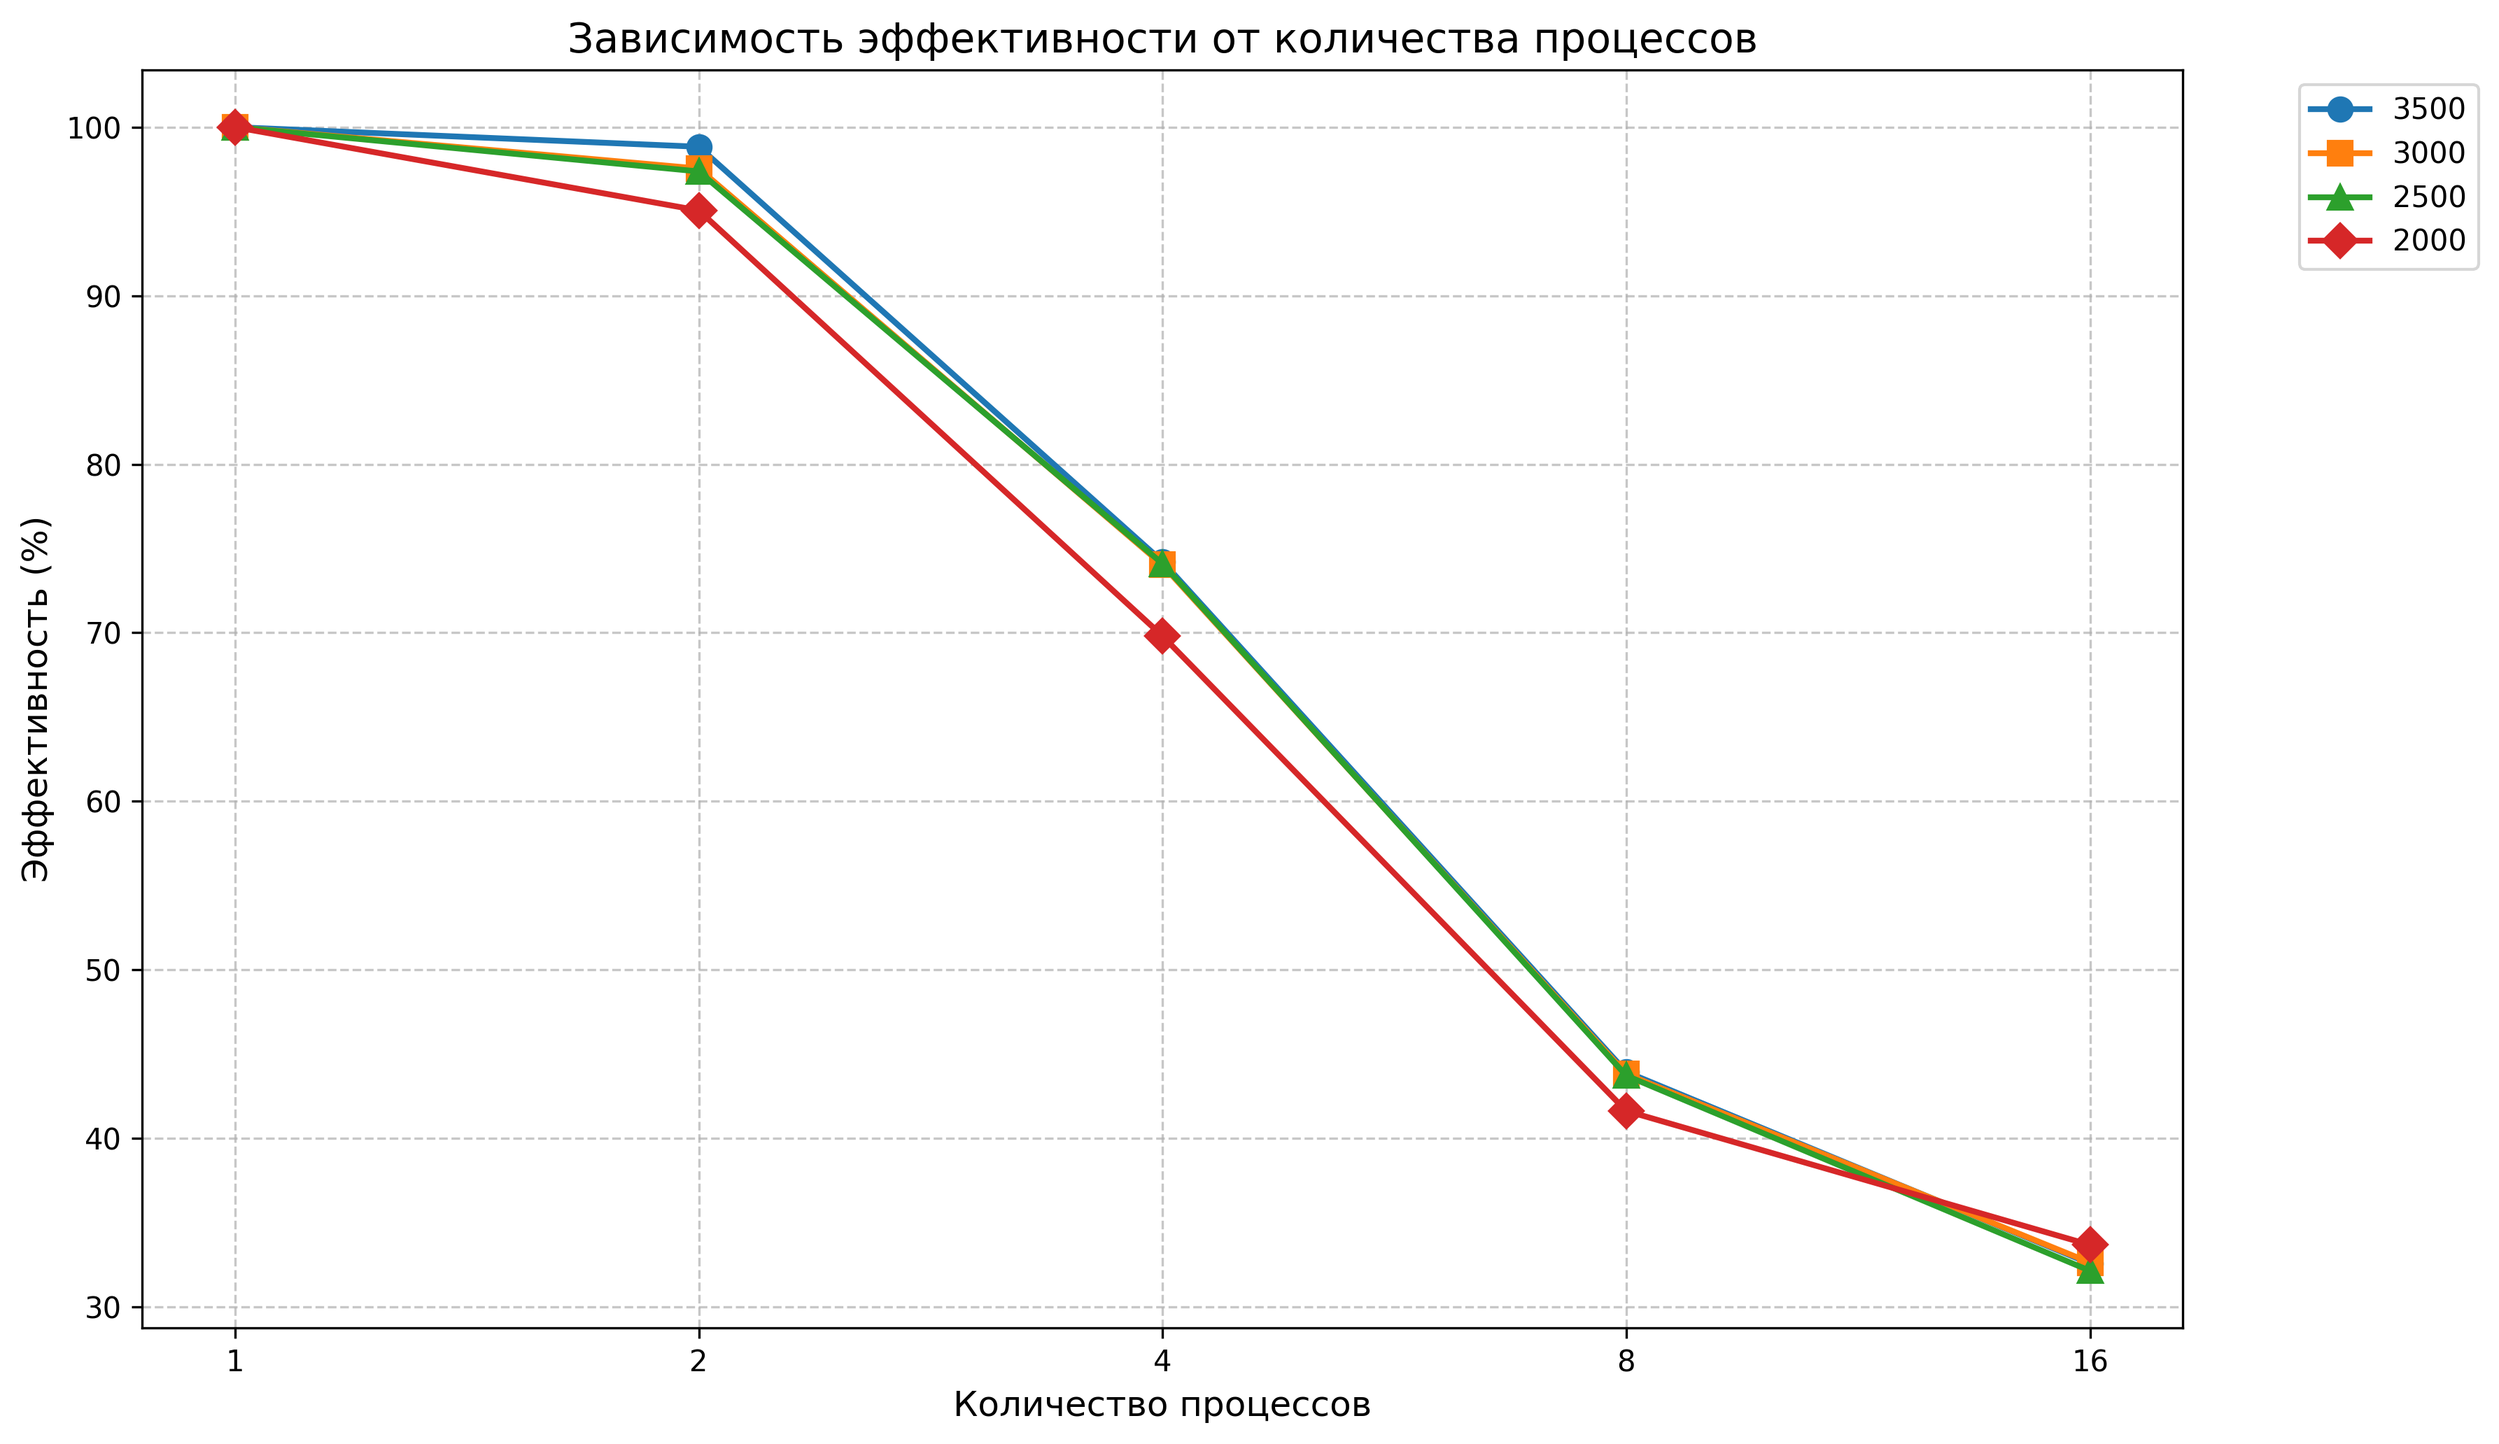
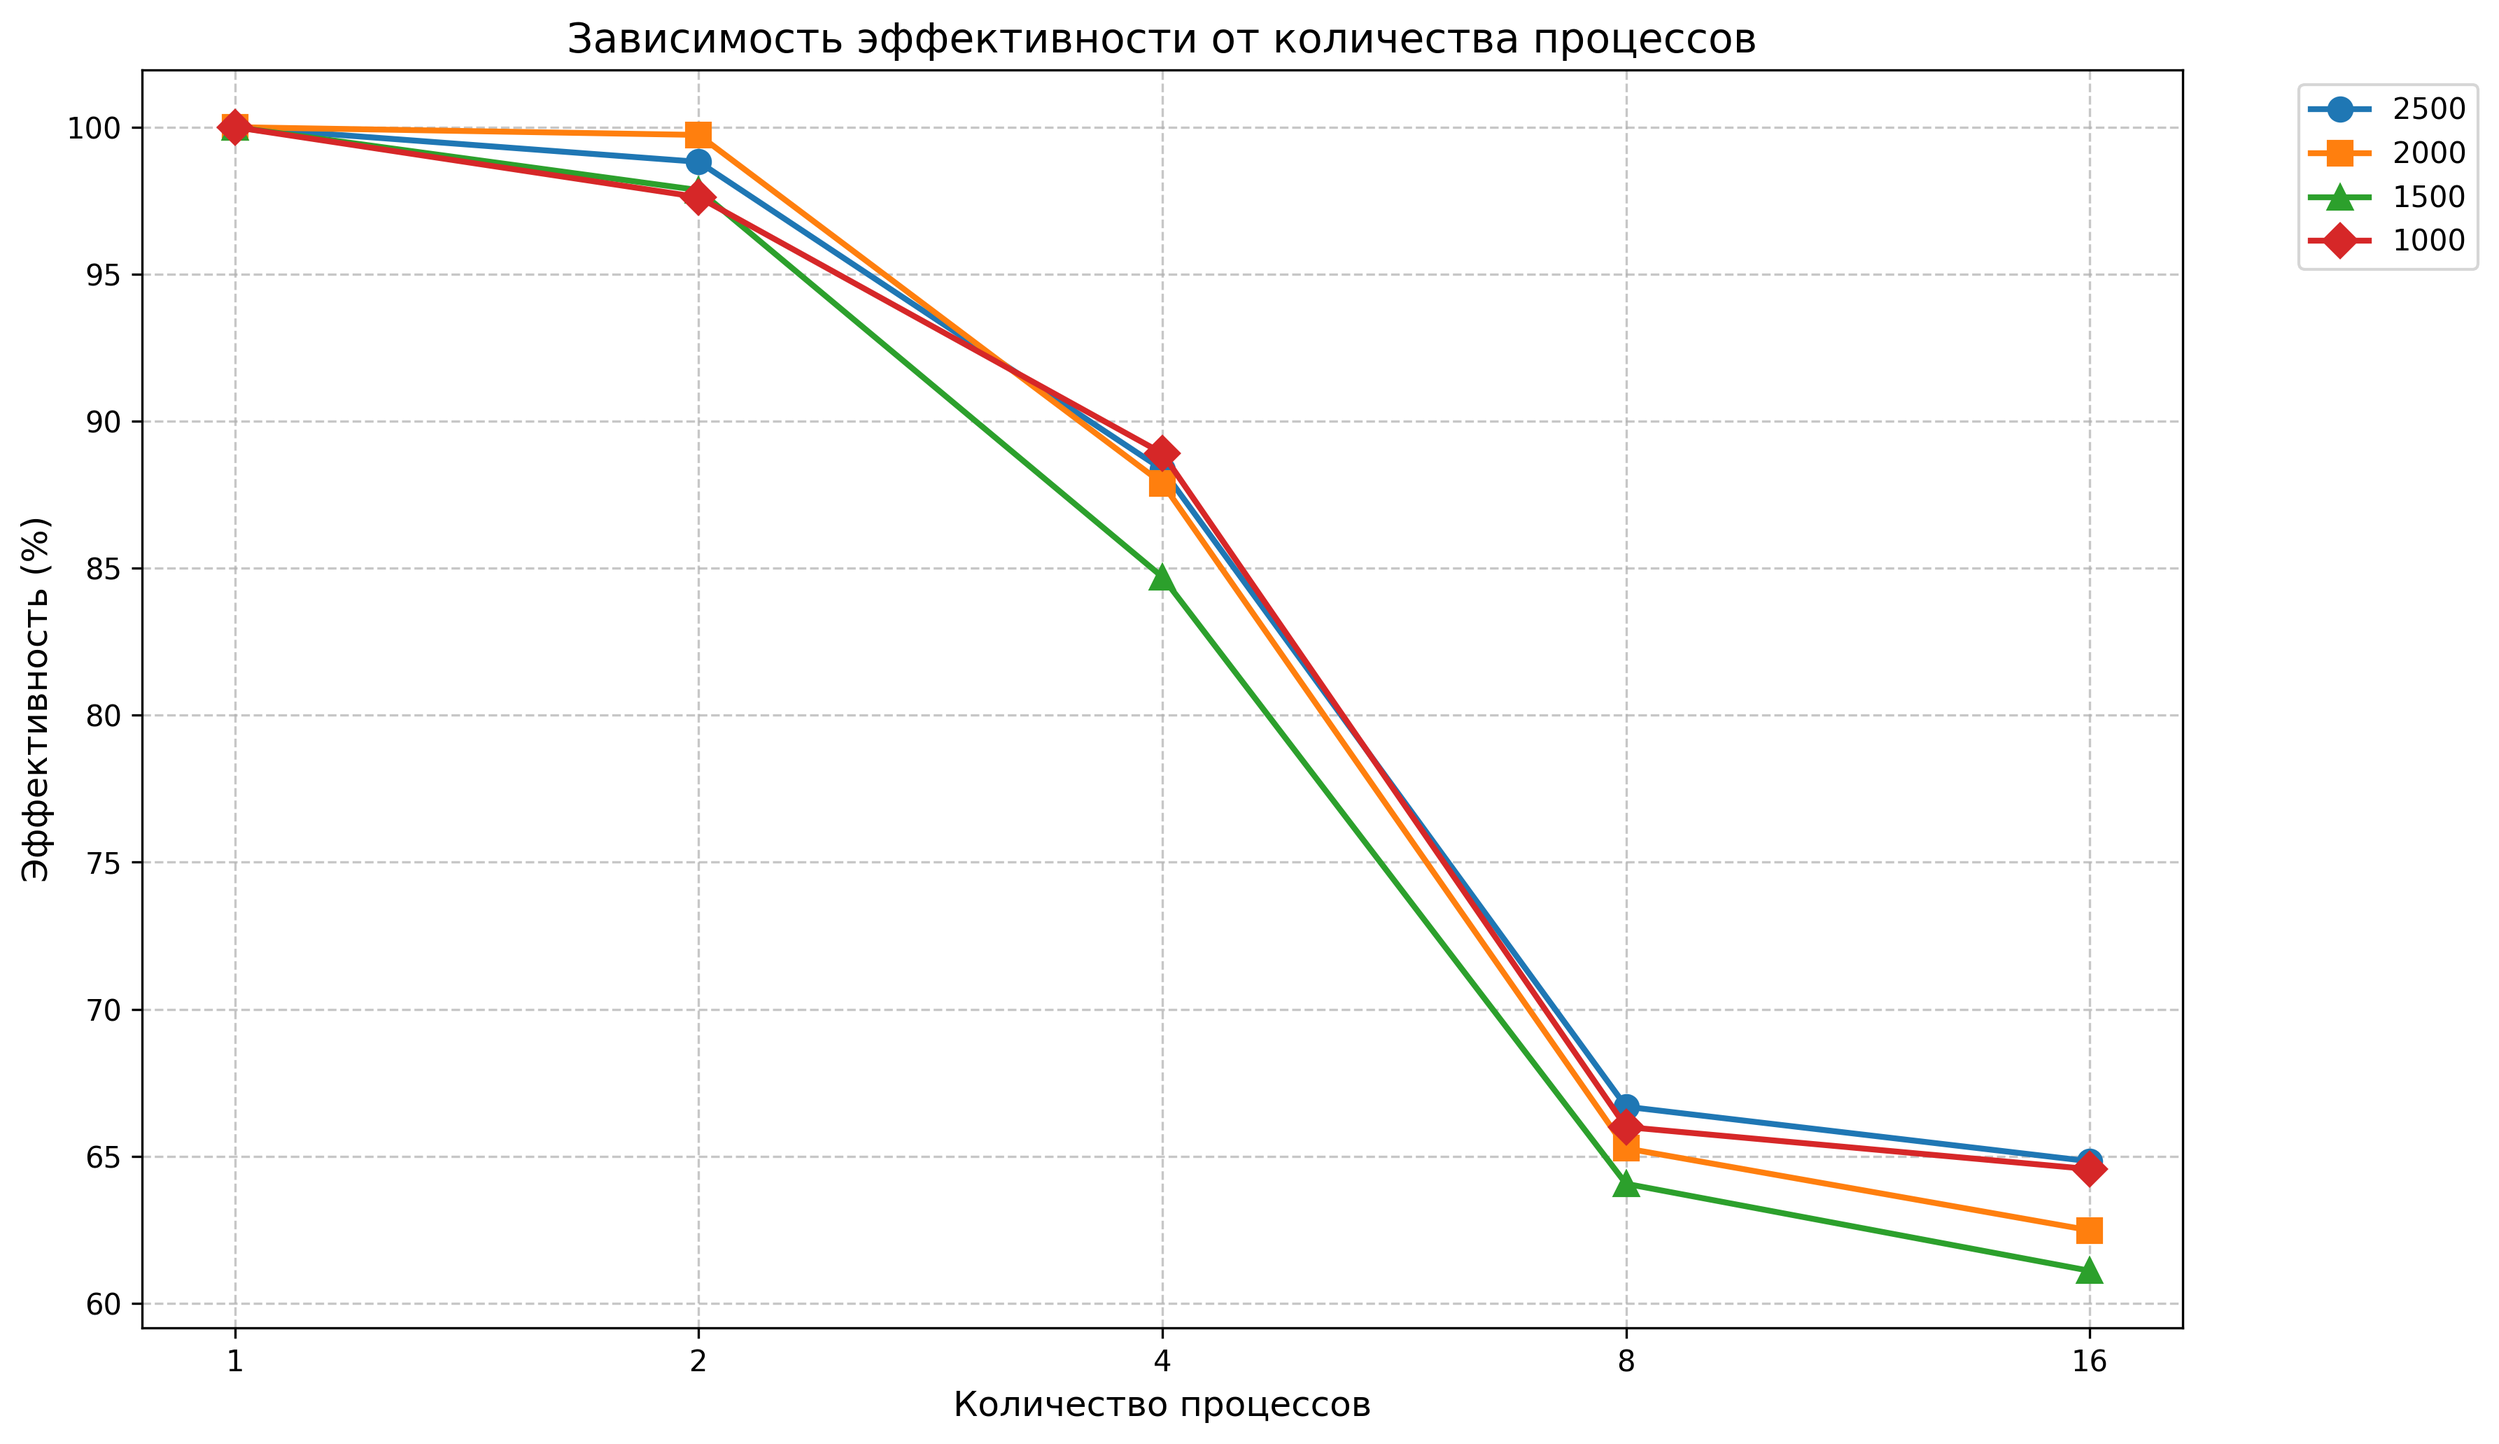
update codes

diff --git a/lab_3/src/new_mult.c b/lab_3/src/new_mult.c
@@ -137,35 +137,53 @@ void local_matrix_multiply(const Matrix* a, const Matrix* b, Matrix* c) {
 void gather_results(const GridInfo* grid, Matrix* sub_c, Matrix* c) {
     int sub_rows = n1 / grid->dims[0];
     int sub_cols = n3 / grid->dims[1];
-    int sendcount = sub_rows * sub_cols;
+    int rank = grid->rank, size = grid->size;
 
-    int* recvcounts = NULL;
-    int* displs = NULL;
+    MPI_Datatype block_temp, block_type;
+    MPI_Type_vector(sub_rows,        
+                    sub_cols,        
+                    n3,              
+                    MPI_DOUBLE,      
+                    &block_temp);
+    
+    // сворачиваем без отступов (extent = sub_cols * sizeof(double) - сколько мы кладем, потому что displs правильно все расположит)
+    MPI_Type_create_resized(block_temp,
+                            0,                       
+                            sub_cols * sizeof(double), 
+                            &block_type);
+    MPI_Type_commit(&block_type);
+    MPI_Type_free(&block_temp);
 
-    if (grid->rank == 0) {
-        recvcounts = malloc(grid->size * sizeof(int));
-        displs = malloc(grid->size * sizeof(int));
+    int *recvcounts = NULL, *displs = NULL;
+    if (rank == 0) {
+        recvcounts = malloc(size * sizeof(int));
+        displs     = malloc(size * sizeof(int));
+        for (int r = 0; r < size; ++r) {
+            int crd[2];
+            MPI_Cart_coords(grid->grid, r, 2, crd);
 
-        
-        for (int r = 0; r < grid->size; r++) {
-            int coords[2];
-            MPI_Cart_coords(grid->grid, r, 2, coords);
-            int row = coords[0];
-            int col = coords[1];
-            recvcounts[r] = sendcount;
-            displs[r] = (row * sub_rows * n3) + (col * sub_cols);
+            recvcounts[r] = 1; // сколько элемнтов получим - в данном случае  1 элмент block_type
+            displs[r] = crd[0] * sub_rows * (n3 / sub_cols) + crd[1]; // отступ в extents = sub_cols * sizeof(double) 
         }
     }
 
-    MPI_Gatherv(sub_c->data, sendcount, MPI_DOUBLE,
-                c->data, recvcounts, displs, MPI_DOUBLE,
+    MPI_Gatherv(sub_c->data,      
+                sub_rows*sub_cols, 
+                MPI_DOUBLE,     
+                c->data,           
+                recvcounts,       
+                displs,           
+                block_type,    
                 0, grid->grid);
 
-    if (grid->rank == 0) {
+    if (rank == 0) {
         free(recvcounts);
         free(displs);
     }
+
+    MPI_Type_free(&block_type);
 }
+
 
 int main(int argc, char** argv) {
     GridInfo grid = {0};
@@ -220,47 +238,34 @@ int main(int argc, char** argv) {
     // Result collection
     gather_results(&grid, &sub_c, &c);
 
-    // Cleanup and output
-    if(grid.rank == 0) {
-        double end_time = MPI_Wtime();
-        printf("Execution time: %.4f seconds\n", end_time - start_time);
-        // print_matrix(&c);
+    double local_max_diff = 0.0;
 
-        int step = 25; 
-        double max_diff = 0.0;
-        int max_i = -1, max_j = -1;
+    for (int local_i = 0; local_i < sub_rows; ++local_i) {
+        int global_i = grid.coords[0] * sub_rows + local_i;
+        for (int local_j = 0; local_j < sub_cols; ++local_j) {
+            int global_j = grid.coords[1] * sub_cols + local_j;
 
-        for (int i = 0; i < n1; i += step) {
-            for (int j = 0; j < n3; j += step) {
+            double expected = 0.0;
+            for (int k = 0; k < n2; ++k) {
+                expected += (double)(global_i * n2 + k) * (double)(k * n3 + global_j);
+            }
 
-                double theoretical_C = 0.0;
-                for (int k = 0; k < n2; k++) {
-                    double a_ik = (double)(i * n2 + k); // A[i][k]
-                    double b_kj = (double)(k * n3 + j); // B[k][j]
-                    theoretical_C += a_ik * b_kj;
-                }
-
-
-                double computed_C = c.data[i * n3 + j];
-
-
-                double diff = fabs(theoretical_C - computed_C);
-
-
-                if (diff > max_diff) {
-                    max_diff = diff;
-                    max_i = i;
-                    max_j = j;
-                }
+            double computed = sub_c.data[local_i * sub_cols + local_j];
+            double diff = fabs(expected - computed);
+            if (diff > local_max_diff) {
+                local_max_diff = diff;
             }
         }
+    }
 
+    // Собираем глобальный максимум
+    double global_max_diff = 0.0;
+    MPI_Reduce(&local_max_diff, &global_max_diff, 1, MPI_DOUBLE, MPI_MAX, 0, MPI_COMM_WORLD);
 
-        printf("Maximum deviation: %.2e at (%d, %d)\n", max_diff, max_i, max_j);
-
-        free(a.data);
-        free(b.data);
-        free(c.data);
+    if (grid.rank == 0) {
+        double end_time = MPI_Wtime();
+        printf("Execution time: %.4f seconds\n", end_time - start_time);
+        printf("Maximum deviation: %.2e\n", global_max_diff);
     }
 
     free(sub_a.data);

diff --git a/lab_3/graph.py b/lab_3/graph.py
@@ -4,11 +4,10 @@ import pandas as pd
 
 # Исходные данные
 data = """
-3500 : 36.6641 18.5479 12.3487 10.4293 7.0354
-3000 : 23.1453 11.8641 7.8165 6.6026 4.4328
-2500 : 13.4713 6.9174 4.5450 3.8511 2.6195
-2000 : 6.5903 3.4665 2.3601 1.9789 1.2230
-
+2500 : 36.1394 18.2855 10.2251 6.7740 3.4840
+2000 : 20.5696 10.3121 5.8513 3.9393 2.0575
+1500 : 8.5090 4.3476 2.5114 1.6602 0.8703
+1000 : 2.2138 1.1339 0.6225 0.4193 0.2143
 """
 
 # Параметры процессов
